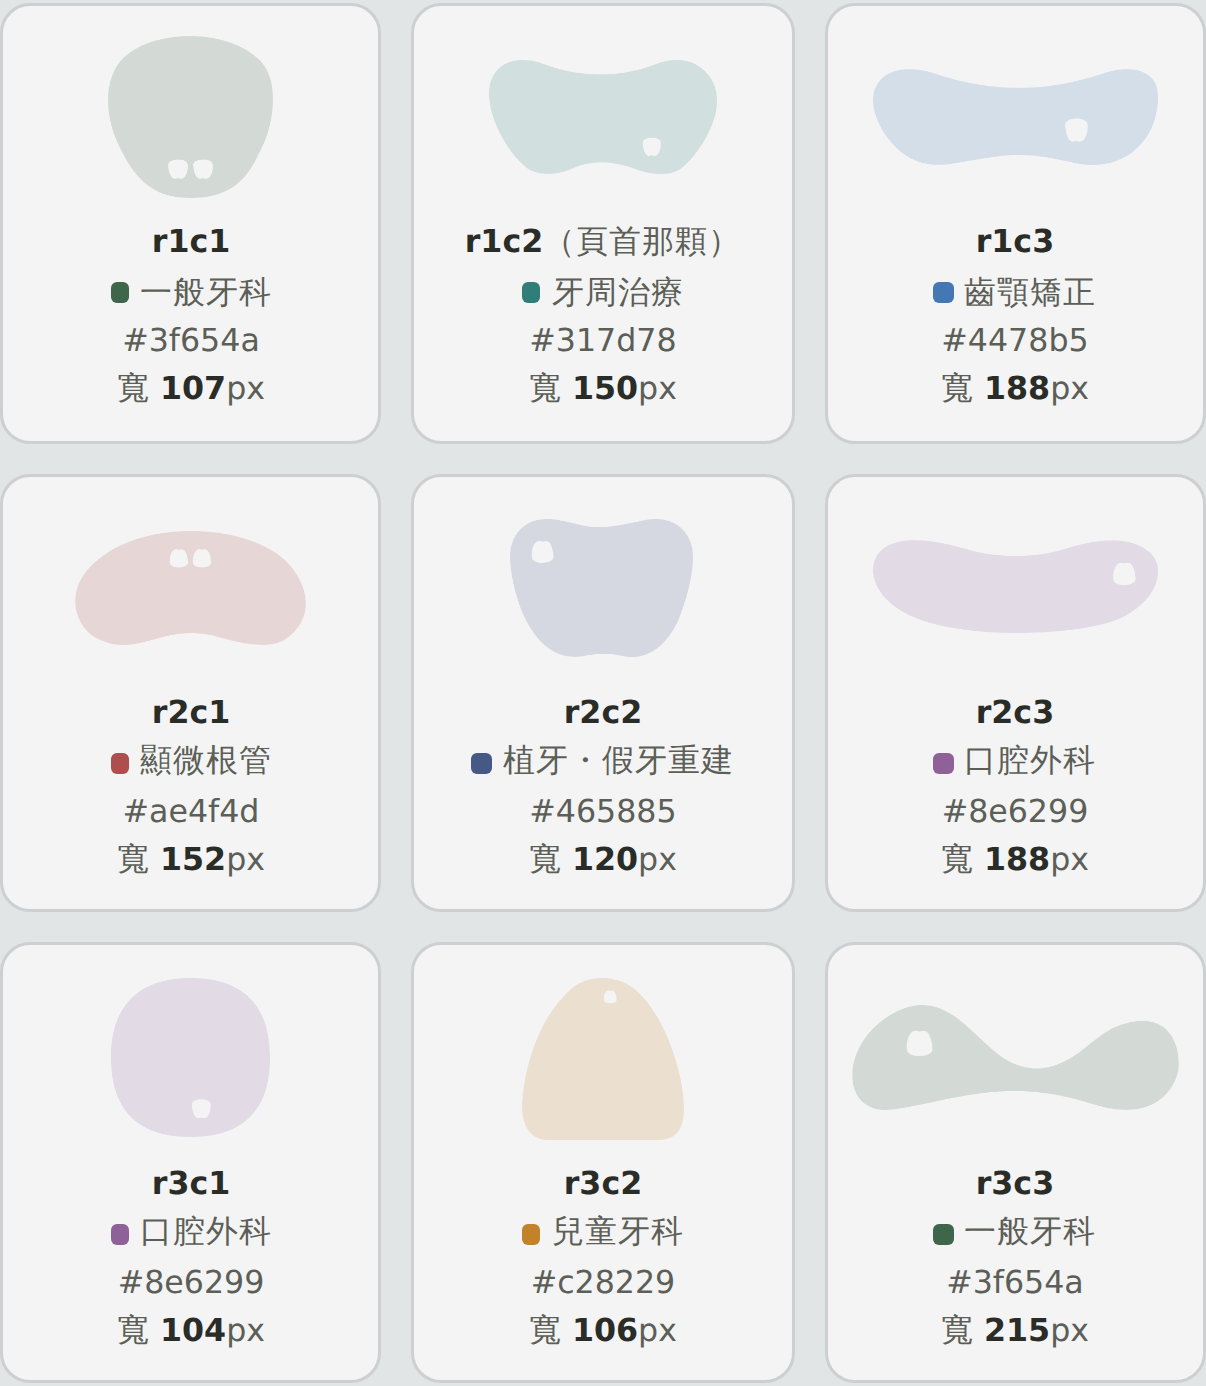
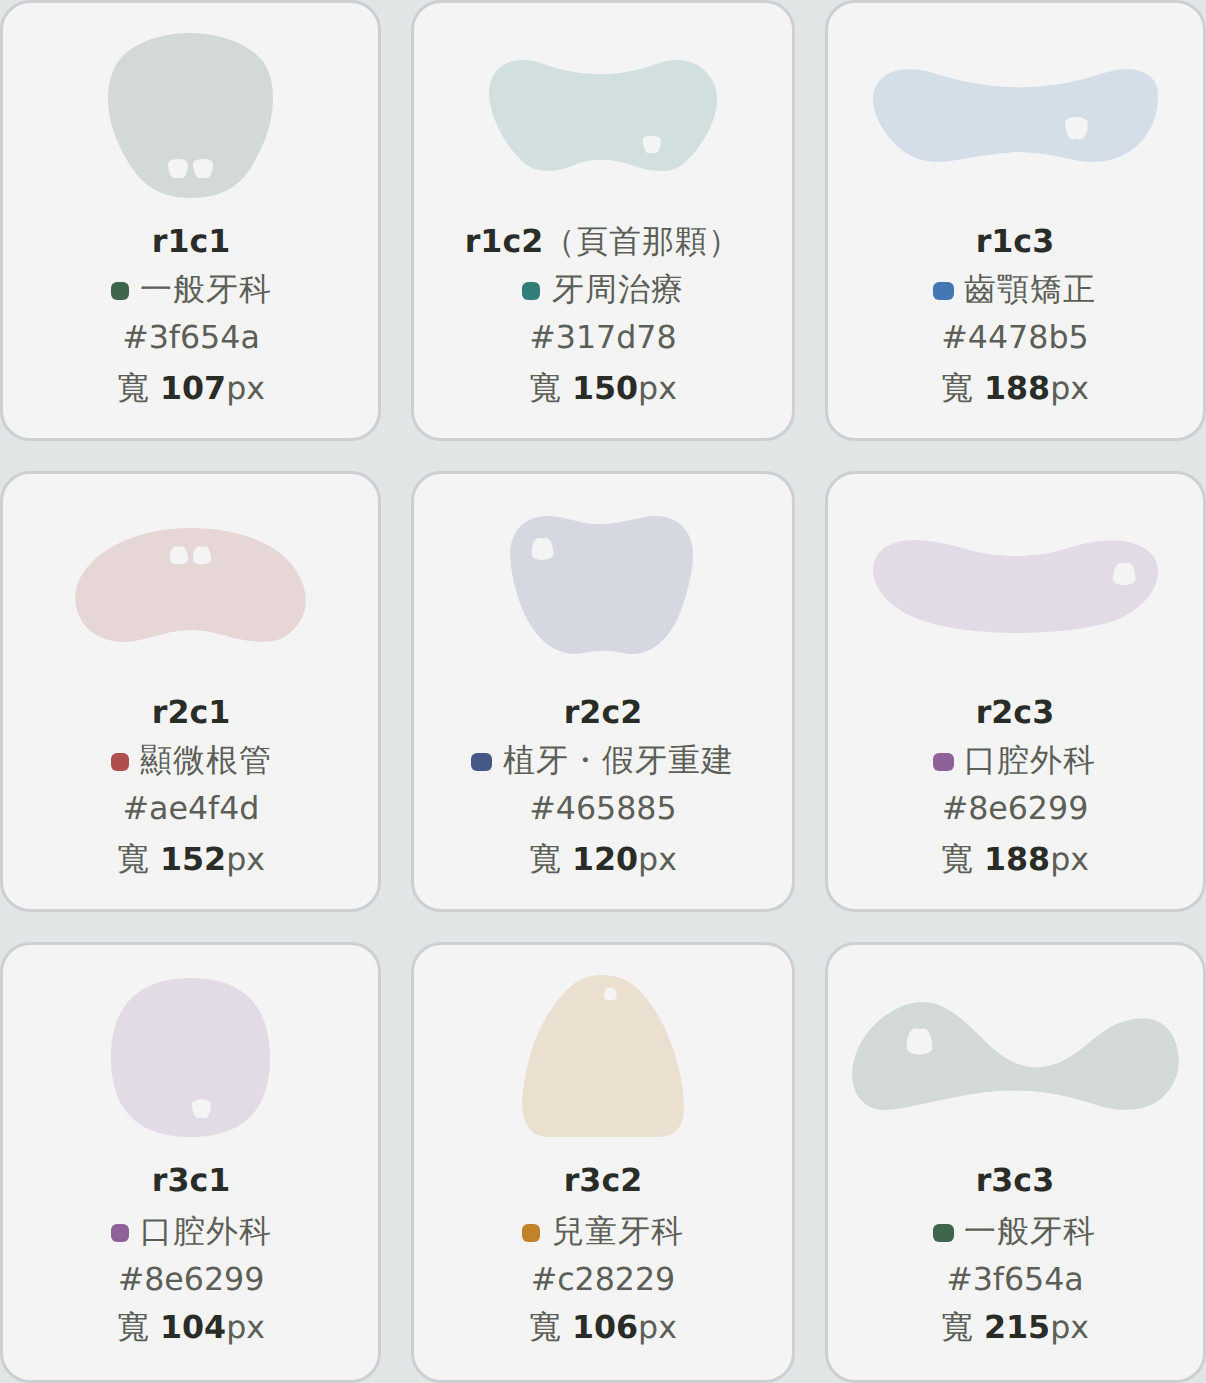
約診狀態那一列套回我們自己的卡（line-booked 第 ②之二 節）
使用者：把這個約診狀態的調整套回我們的設計上，讓我看看效果。

・同一張輪播卡畫兩次：Ⓐ 字套色／Ⓑ 底套色白字，四張卡各掛一個值。
・那一列不在定稿裡，也沒有放回去 —— 09-04 指定整行拿掉，第 ② 節那張卡
  一個字都沒動；這一節只為「廠商說那個欄位移不掉」那條路存在。
・顏色從 wm-sizes.json 按科讀回來，對比度在頁面上現算。
・量到卡片 207px、那一列可用 179、字套色最寬 99、藥丸最寬 115，
  五個寬度逐格相同、水平溢出 0、JS 錯 0。
・修掉一個畫面正常但數字不對的：輪播卡的 207px 寫在用 id 列出來的三條
  選擇器裡，新 slot 沒加進去會退回 width:100%、畫成 218.6px。
・廠商對接頁第 ④ 節補一條連結指過來。

推導在 drafts/channels/README.md 第 50-18 節。

Claude-Session: https://claude.ai/code/session_01LCUw5wBLg87hF9h3QphEMH

diff --git a/preview/line-booked/index.html b/preview/line-booked/index.html
@@ -88,9 +88,9 @@ h1{font-size:1rem;font-weight:700;letter-spacing:.02em}
 /* 輪播：真的可以左右滑，而且要看得到下一張露出一角（同截圖）。
    ⚠ 這裡不是用 CSS 假裝 —— 是排真的 N 張卡（同 og-topic-card 那一輪：
      提案頁要擺真的產出檔，不要用 CSS 把成品再做一次）。 */
-#pv-slot.car,#pv-slot2.car{flex:1 1 auto;max-width:none;overflow-x:auto;scrollbar-width:thin}
-#pv-slot.car .row,#pv-slot2.car .row{display:flex;gap:8.7px;padding-bottom:6px}
-#pv-slot.car .pv-hc,#pv-slot2.car .pv-hc{flex:none;width:207px}
+#pv-slot.car,#pv-slot2.car,#pv-slot5.car,#pv-slot6.car{flex:1 1 auto;max-width:none;overflow-x:auto;scrollbar-width:thin}
+#pv-slot.car .row,#pv-slot2.car .row,#pv-slot5.car .row,#pv-slot6.car .row{display:flex;gap:8.7px;padding-bottom:6px}
+#pv-slot.car .pv-hc,#pv-slot2.car .pv-hc,#pv-slot5.car .pv-hc,#pv-slot6.car .pv-hc{flex:none;width:207px}
 
 /* ---- 卡片外殼（兩案共用）------------------------------------------- */
 .pv-hc{width:100%;border-radius:14px;overflow:hidden;
@@ -195,6 +195,14 @@ h1{font-size:1rem;font-weight:700;letter-spacing:.02em}
    先問這一行在回答什麼）。 */
 .pv-nw .who{font-size:var(--whofs,13px);line-height:1.6;color:var(--ink-soft);letter-spacing:.02em}
 .pv-nw .who.bot{margin-top:8px}
+/* 約診狀態那一列（只有「廠商移不掉那個欄位」時才會出現，見第 ②之二 節）。
+   ⚠ 標籤維持柔墨、不加粗 —— 那一列的主從是「值」不是「欄位名」。
+   ⚠ 藥丸的圓角吃站上那一族的 8.5px，內距寫 em 不寫 px（字級一改它要跟著收）。 */
+.pv-nw .st{display:flex;align-items:baseline;gap:8px;margin-top:9px;
+  font-size:13px;line-height:1.6}
+.pv-nw .st .lb{color:var(--ink-soft);flex:none}
+.pv-nw .st .v{font-weight:700}
+.pv-nw .st .pill{border-radius:8.5px;padding:.125em .63em;color:#fff;font-weight:700}
 .pv-nw .ix{font-size:13px;line-height:1.6;color:var(--ink-soft);letter-spacing:.02em}
 .pv-nw .cal{display:flex;align-items:baseline;gap:9px;margin-top:6px}
 .pv-nw .cal .mo{font-size:14px;color:var(--ink-soft);line-height:1}
@@ -246,6 +254,7 @@ h1{font-size:1rem;font-weight:700;letter-spacing:.02em}
 
 /* ---- 小節標題 -------------------------------------------------------- */
 .pv-h2{font-size:1rem;font-weight:700;margin:34px 0 0;letter-spacing:.01em}
+.pv-h3{font-size:.92rem;font-weight:700;margin:26px 0 0;letter-spacing:.01em}
 .pv-h2 + .pv-sub{margin-top:6px}
 
 /* ---- 九顆浮水印的對照表（給廠商）-------------------------------------
@@ -302,6 +311,31 @@ h1{font-size:1rem;font-weight:700;letter-spacing:.02em}
   </div>
   <p class="pv-cap">↑ 他點了圖文選單的<b>約診紀錄查詢</b>之後回的。⚠ 近似，不是 LINE 自己的算繪。</p>
   <div class="pv-panel" id="pv-panel2"></div>
+
+  <h2 class="pv-h2">②之二 約診狀態那一列（廠商移不掉的話）</h2>
+  <p class="pv-note">
+    <b>這一列不在定稿裡</b> —— 上面第 ② 節那張卡是定案的樣子，整行拿掉了。
+    它只為一件事存在：<b>廠商說那個欄位移不掉的話，那一列該長什麼樣</b>。<br>
+    欄位名與四個值是定案的：<b>約診狀態</b>／已排定・已確認・未回覆・已取消。
+    顏色是挑定的那一組（齒顎矯正・一般牙科・兒童牙科・顯微根管的套色），
+    <b>從 <code>wm-sizes.json</code> 按科讀回來</b>，不在這一頁再寫一份。<br>
+    四張卡各掛一個值 —— 一張卡看不出四種擺在一起的相對份量。
+  </p>
+
+  <h3 class="pv-h3">Ⓐ 字套色</h3>
+  <div class="pv-phone" id="pv-ph5">
+    <div class="pv-head"><img src="../../assets/icon-192.png" alt=""><span class="b">芳仁牙醫診所</span><span class="x">⋯</span></div>
+    <div class="pv-chat" id="pv-chat5"></div>
+  </div>
+  <div class="pv-panel" id="pv-panel5"></div>
+
+  <h3 class="pv-h3">Ⓑ 底套色、白字（藥丸）</h3>
+  <div class="pv-phone" id="pv-ph6">
+    <div class="pv-head"><img src="../../assets/icon-192.png" alt=""><span class="b">芳仁牙醫診所</span><span class="x">⋯</span></div>
+    <div class="pv-chat" id="pv-chat6"></div>
+  </div>
+  <div class="pv-panel" id="pv-panel6"></div>
+  <div id="pv-stwrap"></div>
 
   <h2 class="pv-h2">③ 浮水印：九顆形狀與顏色</h2>
   <p class="pv-sub">用的是<b>九宮格那九個形狀</b>（<code>brand/shapes/shape-r{1,2,3}c{1,2,3}.svg</code>，
@@ -404,6 +438,36 @@ h1{font-size:1rem;font-weight:700;letter-spacing:.02em}
        示範資料要對得上那個情境，不然「重編號碼」根本演不出來。 */
     { m: 10, d: 3, w: "五", t: "14:00", who: "〔家人姓名〕" }
   ];
+  /* ---- 約診狀態那一列 -------------------------------------------------
+     ⚠⚠⚠ 這一列**不在定稿裡**：2026-09-04 使用者指定「預約狀態整行拿掉」。
+       它只為了一件事存在 —— 廠商說那個欄位移不掉的話，那一列該長什麼樣。
+       所以它畫在自己的第 ②之二 節，第 ② 節那張定稿的卡一個字都沒動。
+     ⚠⚠ 四個值與欄位名是 2026-09-12 定案的（README 第 50-11、50-15 節）：
+       約診狀態／已排定・已確認・未回覆・已取消。
+     ⚠⚠⚠ **顏色不在這裡寫死** —— 從 wm-sizes.json 按「科」讀回來（唯一出處），
+       那正是使用者挑定的 Ⓐ 色票。讀不到就不畫，並在那一節說清楚為什麼。 */
+  var STAT_SPEC = [["已排定", "ortho"], ["已確認", "general"],
+                   ["未回覆", "kids"], ["已取消", "endo"]];
+  function statusList() {
+    if (!SIZES) return null;
+    var byspec = {}, k;
+    for (k in SIZES) byspec[SIZES[k].spec] = SIZES[k].color;
+    var out = [], i;
+    for (i = 0; i < STAT_SPEC.length; i++) {
+      if (!byspec[STAT_SPEC[i][1]]) return null;
+      out.push({ n: STAT_SPEC[i][0], c: byspec[STAT_SPEC[i][1]] });
+    }
+    return out;
+  }
+  function _lin(c) { c /= 255; return c <= 0.03928 ? c / 12.92 : Math.pow((c + 0.055) / 1.055, 2.4); }
+  function _lum(h) { var n = parseInt(h.slice(1), 16);
+    return 0.2126 * _lin(n >> 16 & 255) + 0.7152 * _lin(n >> 8 & 255) + 0.0722 * _lin(n & 255); }
+  function _cr(a, z) { var x = _lum(a), y = _lum(z);
+    return Math.floor(((Math.max(x, y) + 0.05) / (Math.min(x, y) + 0.05)) * 100) / 100; }
+
+  /* stat：""＝不畫（定稿）／"txt"＝字套色／"pill"＝底套色白字 */
+  var stat = "", STV = null;
+
   var BOOKED = APPTS[1];   /* 預約成功那一則講的是 8/25 那一次（＝截圖裡的那一張） */
 
   /* ---- 日期怎麼寫 -----------------------------------------------------
@@ -675,6 +739,15 @@ h1{font-size:1rem;font-weight:700;letter-spacing:.02em}
     }
     /* ⚠⚠ 預約成功那一張 2026-09-05 起**不放地址電話**（使用者指定），
        所以這把尺只剩輪播在用；booked 進來時 ad 已經被壓成 none。 */
+    /* 約診狀態：日期底下、地址那一塊之前。⚠ 只有第 ②之二 節會把 stat 打開。 */
+    if (isQuery && stat && STV && STV[i % STV.length]) {
+      var sv = STV[i % STV.length];
+      h += '<p class="st"><span class="lb">約診狀態</span>'
+        +  (stat === "pill"
+             ? '<span class="pill" style="background:' + sv.c + '">' + sv.n + '</span>'
+             : '<span class="v" style="color:' + sv.c + '">' + sv.n + '</span>')
+        +  '</p>';
+    }
     if (isQuery && nm === "bot" && a.who) h += '<p class="who bot">' + a.who + '</p>';
     if (ad === "box")
       h += '<p class="box">' + ADDR + '\n' + TEL + '</p>';
@@ -725,6 +798,50 @@ h1{font-size:1rem;font-weight:700;letter-spacing:.02em}
     msg = "query"; v = "nw"; dt = "cn";
     document.getElementById("pv-chat2").innerHTML = queryChat("pv-slot2");
     measure("pv-slot2", "pv-panel2");
+
+    /* ②之二 約診狀態那一列：同一張輪播卡，兩種畫法各畫一次。
+       ⚠ 四張卡各掛一個值，四個值一次看得完（同一張卡看不出四種的相對份量）。 */
+    STV = statusList();
+    var stBox = document.getElementById("pv-stwrap");
+    if (!STV) {
+      stBox.innerHTML = "<p class='pv-note'><span class='no'>讀不到 "
+        + "<code>wm-sizes.json</code></span> —— 這一節的四顆顏色從那一份按科讀回來"
+        + "（跑 <code>node drafts/channels/booked-mark.mjs</code> 重產）。</p>";
+    } else {
+      msg = "query"; v = "nw"; dt = "cn";
+      stat = "txt";
+      document.getElementById("pv-chat5").innerHTML = queryChat("pv-slot5");
+      measure("pv-slot5", "pv-panel5");
+      stat = "pill";
+      document.getElementById("pv-chat6").innerHTML = queryChat("pv-slot6");
+      measure("pv-slot6", "pv-panel6");
+      stat = "";
+      /* ⚠ 這一節自己的數字：對比現算，寬度現量。
+         ⚠⚠ .st 是 flex nowrap，**永遠不會折行** —— 要量的是「放不放得下」。 */
+      var inner = document.querySelector("#pv-slot6 .pv-hc .b");
+      var avail = inner.clientWidth
+        - parseFloat(getComputedStyle(inner).paddingLeft)
+        - parseFloat(getComputedStyle(inner).paddingRight);
+      var need = [].slice.call(document.querySelectorAll("#pv-slot6 .st")).map(function (p) {
+        var w = 0, i;
+        for (i = 0; i < p.children.length; i++) w += p.children[i].getBoundingClientRect().width;
+        return w + (p.children.length - 1) * 8;
+      });
+      stBox.innerHTML = "<p class='pv-note'><b>這一節量到的</b>：卡片 "
+        + document.querySelector("#pv-slot6 .pv-hc").getBoundingClientRect().width.toFixed(0)
+        + "px（＝輪播上那一張真正的寬度）、那一列可用 " + avail.toFixed(0)
+        + "px、藥丸那一版最寬要 " + Math.max.apply(null, need).toFixed(0) + "px。<br>"
+        + "<b>白字壓在填色上</b>："
+        + STV.map(function (x) {
+            var n = _cr("#ffffff", x.c);
+            return x.n + " " + n.toFixed(2) + (n < 4.5 ? "（低於 4.5）" : "");
+          }).join("　") + "　門檻 4.5<br>"
+        + "⚠ <b>兒童牙科那一顆 3.22 不要訂正</b> —— 站上首頁那顆兒童牙科標記按下去"
+        + "就是這個填色配白字，2026-08-08 看過真實版面才定的取捨。<br>"
+        + "⚠ 字套色那一版的四個數字（壓在卡片色上）是 "
+        + STV.map(function (x) { return _cr(x.c, "#F4F4F5").toFixed(2); }).join("／") + " —— "
+        + "<b>藍與橘過不了 4.5</b>，那正是「套色拿來當字是用錯階」。</p>";
+    }
 
     /* ③ 現況・預約成功。
        ⚠⚠ 現況那兩張**各用各的日期格式**，那正是問題本身：同一個帳號、同一件事，

diff --git a/preview/line-vendor/index.html b/preview/line-vendor/index.html
@@ -534,6 +534,7 @@ micro 卡，不是單張的 mega 卡。</figcaption>
 <div class="row"><p class="k">對比</p><p class="v">數字是<b>白字壓在那一塊填色上</b>，門檻一樣是 4.5。四顆全部比當字的時候好，只有兒童牙科那一顆仍然在門檻底下。</p></div>
 <div class="row"><p class="k">兒童牙科那一顆</p><p class="v"><b>3.22 是站上早就接受過的那一格</b> —— 首頁「主題與科別」按下去的兒童牙科標記就是這個填色配白字，2026-08-08 做成真的樣子看過才定的。<b>所以不要拿對比度來訂正它</b>，也不要單獨把這一顆換成更深的橘（那會讓四顆不是同一組顏色）。</p></div>
 <div class="row"><p class="k">換到什麼・付出什麼</p><p class="v">① 藥丸是整張卡上唯一一塊填滿的顏色，<b>份量會比旁邊那行日期重</b> —— 而那張卡是收據、日期本來是主角。② 對廠商來說這從「換一個色碼」變成「那一列要多包一層 box」，<b>要求變大一階</b>（同提醒卡那條：要求的改動愈小愈可能真的改到）。兩件都不是擋路的，寫在這裡是讓他知道換到什麼、付出什麼。</p></div>
+<div class="row"><p class="k">套回我們的設計</p><p class="v">兩種畫法<b>套回我們自己那張約診紀錄查詢的卡</b>了，在 &lt;a href="/preview/line-booked/"&gt;/preview/line-booked/&lt;/a&gt; 第 ②之二 節（四張輪播卡各掛一個值、卡片畫成輪播上真正的 207px）。<b>那一列不在定稿裡</b> —— 第 ② 節那張卡仍然是整行拿掉的樣子，這一節只為「廠商說那個欄位移不掉」那條路存在。</p></div>
 <div class="row"><p class="k">沒有動的</p><p class="v">標籤（約診狀態）維持不加粗也不套色；四個值的字、欄位名、卡片其餘每一個地方一個字都沒動。</p></div>
 </div>
 

diff --git a/drafts/channels/README.md b/drafts/channels/README.md
@@ -11963,3 +11963,52 @@ vendor-query      y 838~1598（761）
 
 ⚠ 標籤（約診狀態）維持不加粗也不套色（50-16 那條沒有變），四個值的字、欄位名、
 卡片其餘每一處一個字都沒動。
+
+### 50-18、把約診狀態那一列套回我們自己的卡（2026-09-12）
+
+使用者：「把這個約診狀態的調整**套回我們的設計上**　讓我看看效果」。
+成品在 **`/preview/line-booked/` 第 ②之二 節**（`preview/line-booked/index.html`，
+手寫的那一頁；守門 `node drafts/channels/check-booked.mjs`）。
+
+⚠⚠⚠ **這一列不在定稿裡，而且刻意沒有放回去** —— 2026-09-04 使用者指定
+「預約狀態整行拿掉」（第 22-11 節），第 ② 節那張卡因此一個字都沒動。
+第四十九、五十節那一整串的前提從頭到尾是**條件句**：
+「如果廠商那邊那個欄位無法移除」。所以這一節是**那條路的樣子**，不是新的定稿；
+兩層的順序沒有變（第一層仍然是 41-8：那一筆能不能就不要列出來）。
+
+**做法**：同一張輪播卡畫兩次，Ⓐ 字套色／Ⓑ 底套色白字（藥丸），
+**四張卡各掛一個值** —— 一張卡看不出四種擺在一起的相對份量。
+
+⚠⚠ **顏色不在那一頁寫死**：從 `wm-sizes.json` **按「科」**讀回來
+（ortho／general／kids／endo ＝ 使用者挑定的 Ⓐ 色票），讀不到就不畫並說明為什麼。
+對比度也在頁面上**現算**（無條件捨去到小數第二位，同 50-16）。
+
+量到（五個寬度逐格相同）：卡片 **207px**、那一列可用 **179px**、
+字套色那一版最寬 99px、**藥丸那一版最寬 115px** —— 兩種都放得下，水平溢出 0、JS 錯 0。
+
+⚠⚠⚠ **踩到一個「畫面正常、數字不對」的，而且它正是這條線記過四次的那一條**：
+輪播卡的 207px 是寫在
+
+```
+#pv-slot.car .pv-hc,#pv-slot2.car .pv-hc{flex:none;width:207px}
+```
+
+**用 id 列出來的**三條規則裡。新開的 slot 沒加進去，卡片就退回 `width:100%`、
+畫成 **218.6px**，而畫面看起來完全正常 —— **在一張 218.6px 的卡上判斷「那一列放不放得下」
+全部是假的**。三條都補上新的兩個 id。
+**通則（第五次記）：模擬別人的介面時，凡是那一側寫死的尺寸，我們這邊也要寫死 ——
+而「寫死」還要問一次「它是用什麼選到的」，用 id 列的那一種，多一個 slot 就會靜靜地漏掉。**
+
+⚠⚠ **第二個坑在量測那一側**：第一版數「那一列幾行」是照子元素 rect 的 `top` 分組，
+**藥丸有內距，它的 top 本來就和旁邊的標籤不一樣**，四列全部被報成兩行、
+而畫面上一行都沒折（＝ 39-9 那個「量測多數出一行」的近親）。
+**而且那個問法本身就是錯的**：`.st` 是 `display:flex` 且 nowrap，**永遠不會折行** ——
+要量的是**放不放得下**（內容寬 vs 可用寬），不是幾行。
+**通則：量之前先問「這個東西在這個排版底下有沒有可能發生我要量的那件事」。**
+
+⚠ 順帶一件沒有動的：`#pv-slot3`／`#pv-slot4`（第 ④ 節「現況」那兩張）**也不在那三條
+選擇器裡**，量到 310.6／334.5px。那兩節比的是內容不是寬度，而且是使用者已經看過的
+畫面，**所以這一輪沒有順手改**——記在這裡，要動是另一件事。
+
+⚠ `shot-wm.png` 重跑之後高度少 1 CSS px（1386 → 1383 device px），
+是新樣式進來之後的一次重排，重跑兩次結果相同。其餘四張 shot 逐位元組沒有變。
